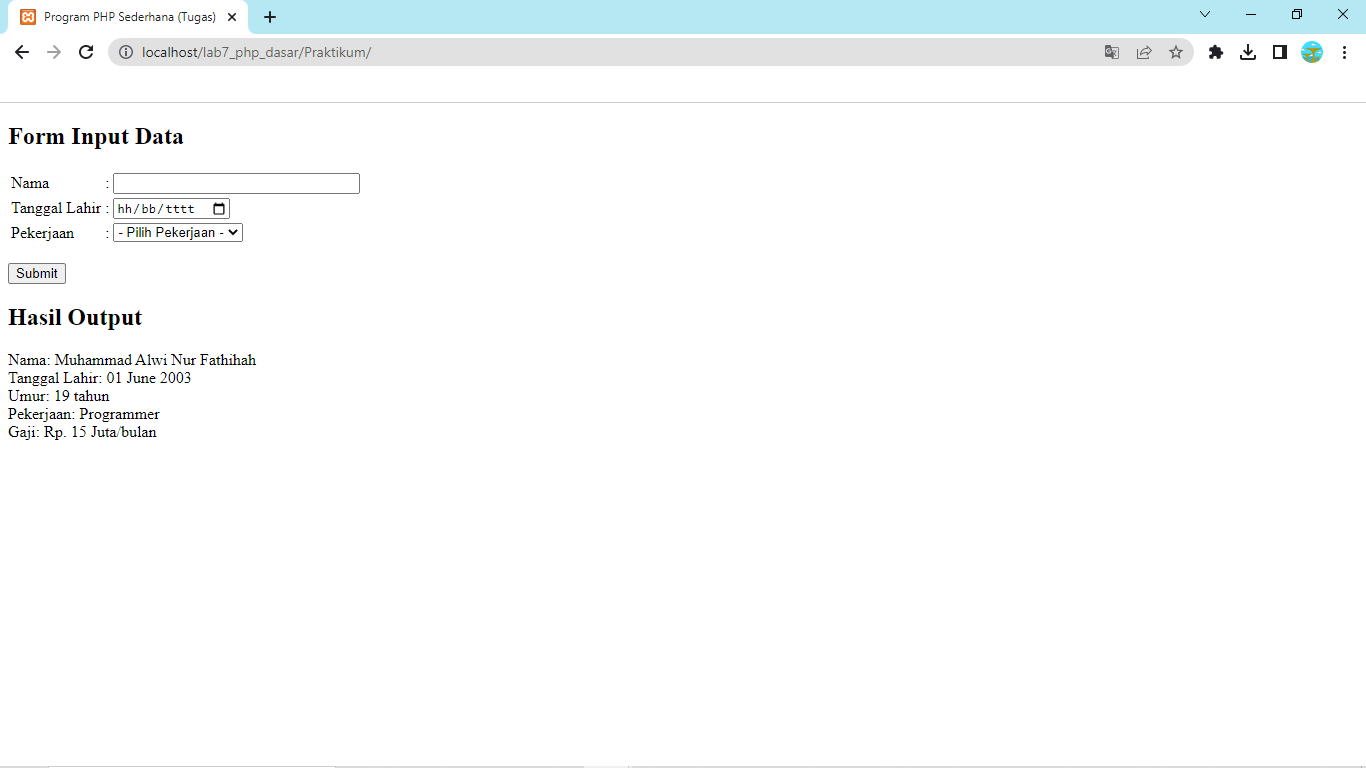
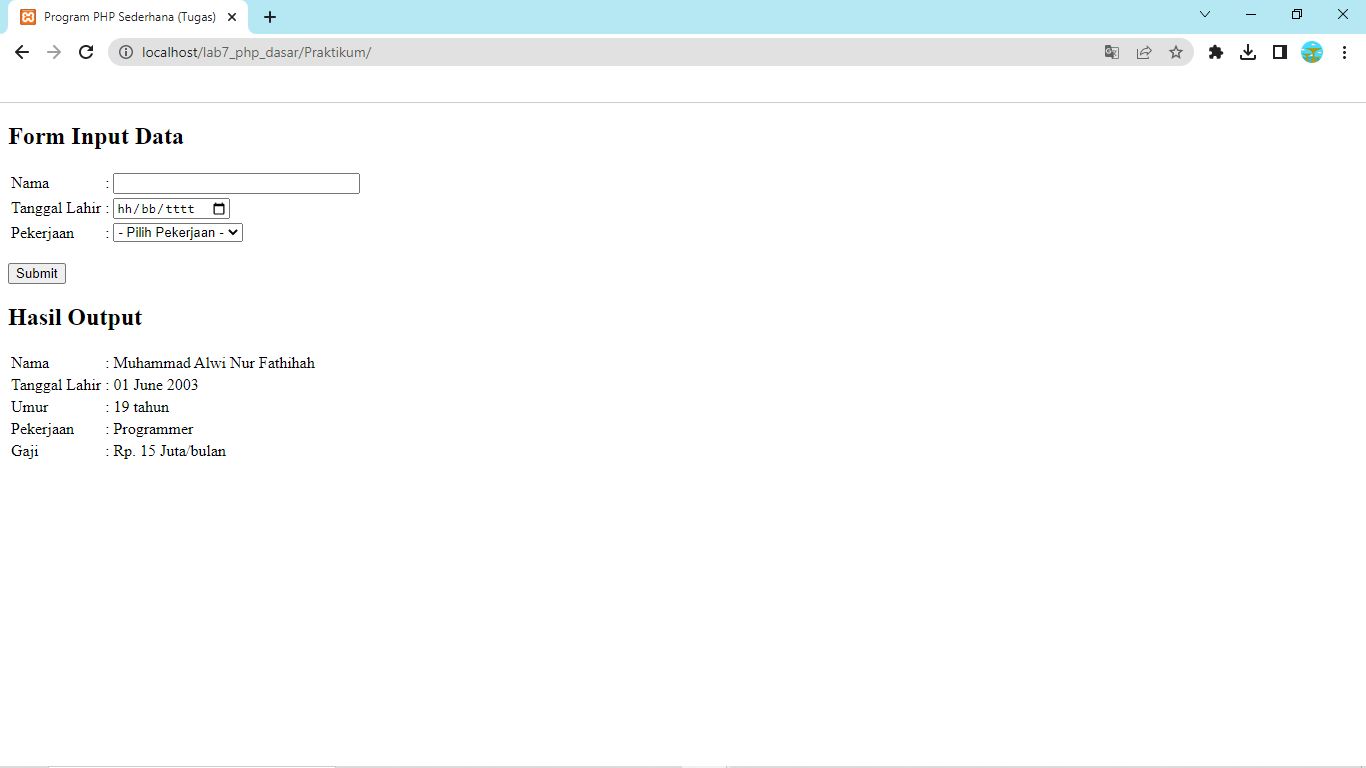
Add File

Changed region(s): [[0.0, 0.4375, 0.246, 0.5938]]

diff --git a/README.md b/README.md
@@ -302,11 +302,14 @@ $i++;
 
     // Tampilkan hasil
     echo "<h2>Hasil Output</h2>";
-    echo "Nama: $nama<br>";
-    echo "Tanggal Lahir: $hasil_tanggal_lahir<br>";
-    echo "Umur: $umur tahun<br>";
-    echo "Pekerjaan: $pekerjaan<br>";
-    echo "Gaji: Rp. $gaji/bulan<br>";
+    echo "<table>";
+    echo "<tr><td>Nama</td><td>:</td><td>$nama</td></tr>";
+    echo "<tr><td>Tanggal Lahir</td><td>:</td><td>$hasil_tanggal_lahir</td></tr>";
+    echo "<tr><td>Umur</td><td>:</td><td>$umur tahun</td></tr>";
+    echo "<tr><td>Pekerjaan</td><td>:</td><td>$pekerjaan</td></tr>";
+    echo "<tr><td>Gaji</td><td>:</td><td>Rp. $gaji/bulan</td></tr>";
+    echo "</table>";
+
 }
     ?>
 </body>
